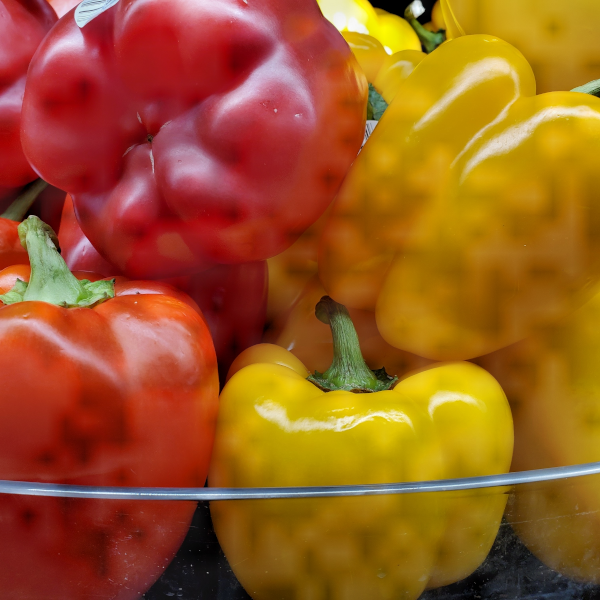
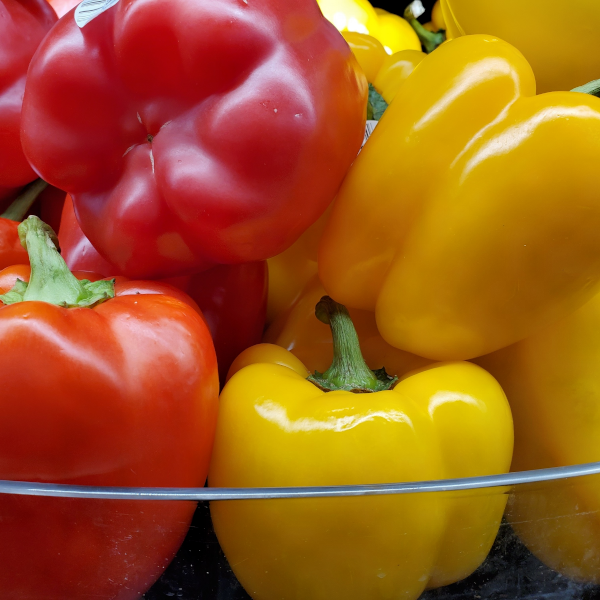
pending debug

diff --git a/phash_test.py b/phash_test.py
@@ -60,7 +60,6 @@ def generate_perturbation_vectors(dim, half_size):
     return perturbations
 
 
-
 def generate_phash(tensor, height, width, dct_dim):
     pixels_2d = tensor.reshape((height, width)).cpu().numpy()
     dct = scipy.fftpack.dct(scipy.fftpack.dct(pixels_2d, axis=0), axis=1)
@@ -72,10 +71,16 @@ def generate_phash(tensor, height, width, dct_dim):
 
 
 
-def l2_per_pixel_torch(img1, img2):
+def l2_per_pixel_grayscale_1d(img1, img2):
+    diff = img1 - img2
+    return torch.linalg.vector_norm(diff, ord=2).mean().item() / diff.numel()
+
+
+
+def l2_per_pixel_rgb(img1, img2):
     C, H, W = img1.shape
-    diff = (img1 - img2).view(C, -1)
-    return torch.norm(diff, p=2, dim=0).mean().item()
+    diff = (img1 - img2).view(C, -1) #Flatten each color's matrix to 1-d array
+    return torch.norm(diff, p=2, dim=0).mean().item() #Convert 3xN arrays to 3N array
 
 
 
@@ -84,6 +89,35 @@ def hamming_distance_hex(hash1, hash2):
     int2 = int(hash2, 16)
     xor = int1 ^ int2
     return bin(xor).count('1')
+
+
+
+
+def minimize_rgb_l2_preserve_hash(rgb_tensor, rgb_delta, target_hash, grayscale_hash, dct_side_length, dct_dim, hash_threshold):
+    scale_factors = torch.linspace(1.0, 0.0, steps=50)
+    optimal_delta = rgb_delta.clone()
+    optimal_hash = grayscale_hash
+    ham_dist = hash_threshold
+
+    for scale in scale_factors:
+        candidate_delta = rgb_delta * scale
+        candidate_output = (rgb_tensor + candidate_delta).clamp(0.0, 1.0)
+        
+        candidate_gray = get_grayscale_tensor(candidate_output, dct_side_length, device)
+        candidate_hash = generate_phash(candidate_gray, dct_side_length, dct_side_length, dct_dim)
+        
+        ham_dist = hamming_distance_hex(candidate_hash, target_hash)
+        if ham_dist >= hash_threshold:
+            optimal_delta = candidate_delta
+        else:
+            break  
+    
+    optimal_tensor = (rgb_tensor + optimal_delta).clamp(0.0, 1.0)
+    optimal_l2 = l2_per_pixel_rgb(rgb_tensor, optimal_tensor)
+
+    return (optimal_tensor, optimal_hash, ham_dist, optimal_l2)
+
+
 
 
 
@@ -98,7 +132,7 @@ def phash_attack():
     SCALE_FACTOR = 6.0
     STEP_SIZE = 0.01
     MAX_CYCLES = 10000
-    HASH_THRESHOLD = 10
+    HASH_THRESHOLD = 5
 
     rgb_image = Image.open(INPUT_IMAGE_PATH)
     rgb_tensor = get_rgb_tensor(rgb_image, device)
@@ -115,21 +149,26 @@ def phash_attack():
     for _ in range(MAX_CYCLES):
         gradient = torch.zeros_like(current_image)
         ph_curr = generate_phash(current_image, DCT_SIDE_LENGTH, DCT_SIDE_LENGTH, DCT_DIM)
+        
         for i in range(NUM_PERTURBATIONS):
             scaled_pert = perturbations[i] * SCALE_FACTOR
             h2 = generate_phash(current_image + scaled_pert, DCT_SIDE_LENGTH, DCT_SIDE_LENGTH, DCT_DIM)
             delta_ham = hamming_distance_hex(ph_curr, h2)
             gradient.add_(delta_ham * scaled_pert)
+        
         delta = gradient.sign() * STEP_SIZE
         current_image = (current_image + delta).clamp(0.0, 1.0)
         total_delta.add_(delta)
         ham = hamming_distance_hex(generate_phash(current_image, DCT_SIDE_LENGTH, DCT_SIDE_LENGTH, DCT_DIM), initial_hash)
+        
+        print(l2_per_pixel_grayscale_1d(grayscale_tensor, current_image))
+
         if ham >= HASH_THRESHOLD:
             break
 
 
-    final_hash = generate_phash(current_image, DCT_SIDE_LENGTH, DCT_SIDE_LENGTH, DCT_DIM)
-    final_ham = hamming_distance_hex(initial_hash, final_hash)
+    grayscale_hash = generate_phash(current_image, DCT_SIDE_LENGTH, DCT_SIDE_LENGTH, DCT_DIM)
+    grayscale_ham = ham #hamming_distance_hex(initial_hash, final_grayscale_hash)
 
 
     small = total_delta.view(1, 1, DCT_SIDE_LENGTH, DCT_SIDE_LENGTH)
@@ -143,20 +182,24 @@ def phash_attack():
     image_delta = inverse_delta(rgb_tensor, upsampled_delta)
 
 
-    output_tensor = (rgb_tensor + image_delta).clamp(0.0, 1.0)
-    final_l2 = l2_per_pixel_torch(rgb_tensor, output_tensor)
+    print("GRAYSCALE_HAM: " + str(grayscale_ham))
+    output_tensor, output_hash, output_hamming, output_l2 = minimize_rgb_l2_preserve_hash(rgb_tensor, image_delta, initial_hash, grayscale_hash, DCT_SIDE_LENGTH, DCT_DIM, HASH_THRESHOLD)
 
     # Print results
     print("Initial Hash:", initial_hash)
-    print("Final Hash:  ", final_hash)
-    print("Final HAM:   ", final_ham)
-    print("Final L2 torch:", final_l2)
+    print("Final Hash:  ", output_hash)
+    print("Final  Hamming Distance:   ", output_hamming)
+    print("Final RGB L2:", output_l2)
 
     # Save image
     out = output_tensor.detach().cpu()
     output_image = ToPILImage()(out)
     output_image.save(OUTPUT_IMAGE_PATH)
     print(f"Saved attacked image to {OUTPUT_IMAGE_PATH}")
+
+
+
+
 
 
 
